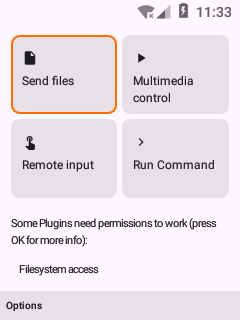
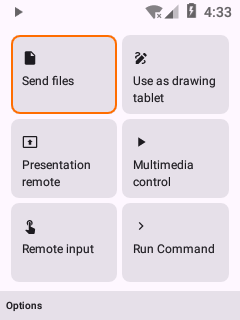
README: current key-only screenshots (15 screens)
Retaken on the 240x320 no-touch API 25 emulator with the current
release build, paired (with keys) to a desktop peer so the screens show
real data. New: PC volume, Run Command with output, Find my phone and
the keypad drawing tablet; the device screen now shows the drawing
tablet tile.

diff --git a/README.md b/README.md
@@ -20,23 +20,27 @@ It keeps any other app's accessibility service and notification listener, and is
 
 <table align="center">
   <tr><td align="center"><img src="screenshots/keypad/01-device-list.png" width="160" alt="Device list"><br><sub>1. Device list</sub></td><td align="center"><img src="screenshots/keypad/02-list-options.png" width="160" alt="Options menu"><br><sub>2. Options menu</sub></td><td align="center"><img src="screenshots/keypad/03-device.png" width="160" alt="Device"><br><sub>3. Device</sub></td></tr>
-  <tr><td align="center"><img src="screenshots/keypad/04-device-options.png" width="160" alt="Device options"><br><sub>4. Device options</sub></td><td align="center"><img src="screenshots/keypad/05-media.png" width="160" alt="Media remote"><br><sub>5. Media remote</sub></td><td align="center"><img src="screenshots/keypad/06-keypad-mouse.png" width="160" alt="Keypad mouse"><br><sub>6. Keypad mouse</sub></td></tr>
-  <tr><td align="center"><img src="screenshots/keypad/07-keypad-mouse-options.png" width="160" alt="Mouse options"><br><sub>7. Mouse options</sub></td><td align="center"><img src="screenshots/keypad/08-compose-text.png" width="160" alt="Compose text"><br><sub>8. Compose text</sub></td><td align="center"><img src="screenshots/keypad/09-add-device.png" width="160" alt="Add device"><br><sub>9. Add device</sub></td></tr>
-  <tr><td align="center"><img src="screenshots/keypad/10-plugin-settings.png" width="160" alt="Plugin settings"><br><sub>10. Plugin settings</sub></td><td align="center"><img src="screenshots/keypad/11-settings.png" width="160" alt="Settings"><br><sub>11. Settings</sub></td><td align="center"><img src="screenshots/keypad/12-share.png" width="160" alt="Share"><br><sub>12. Share</sub></td></tr>
+  <tr><td align="center"><img src="screenshots/keypad/04-device-options.png" width="160" alt="Device options"><br><sub>4. Device options</sub></td><td align="center"><img src="screenshots/keypad/05-media.png" width="160" alt="Media remote"><br><sub>5. Media remote</sub></td><td align="center"><img src="screenshots/keypad/06-pc-volume.png" width="160" alt="PC volume"><br><sub>6. PC volume</sub></td></tr>
+  <tr><td align="center"><img src="screenshots/keypad/07-keypad-mouse.png" width="160" alt="Keypad mouse"><br><sub>7. Keypad mouse</sub></td><td align="center"><img src="screenshots/keypad/08-mouse-options.png" width="160" alt="Mouse options"><br><sub>8. Mouse options</sub></td><td align="center"><img src="screenshots/keypad/09-compose-text.png" width="160" alt="Compose text"><br><sub>9. Compose text</sub></td></tr>
+  <tr><td align="center"><img src="screenshots/keypad/10-run-command.png" width="160" alt="Run Command"><br><sub>10. Run Command</sub></td><td align="center"><img src="screenshots/keypad/11-find-my-phone.png" width="160" alt="Find my phone"><br><sub>11. Find my phone</sub></td><td align="center"><img src="screenshots/keypad/12-drawing-tablet.png" width="160" alt="Drawing tablet"><br><sub>12. Drawing tablet</sub></td></tr>
+  <tr><td align="center"><img src="screenshots/keypad/13-plugin-settings.png" width="160" alt="Plugin settings"><br><sub>13. Plugin settings</sub></td><td align="center"><img src="screenshots/keypad/14-settings.png" width="160" alt="Settings"><br><sub>14. Settings</sub></td><td align="center"><img src="screenshots/keypad/15-share.png" width="160" alt="Share"><br><sub>15. Share</sub></td></tr>
 </table>
 
 1. **Device list**: opens with the first device focused (open the app)
 2. **Options menu**: on top of the soft-key bar (Left soft key)
 3. **Device**: first plugin focused (OK)
 4. **Device options**: ring, ping, plugin settings, unpair (Left soft key)
-5. **Media remote**: Play/Pause on the right key (→ OK)
-6. **Keypad mouse**: the keypad drives the PC pointer (↓ OK)
-7. **Keypad mouse options**: keyboard, compose, settings (Left soft key)
-8. **Compose text**: Clear / Send on the soft keys (Options → Compose text)
-9. **Add device by IP**: dialog opens focused (Options → Add devices by IP → Add device)
-10. **Plugin settings**: the ring hugs the toggle (Options → Plugin settings)
-11. **Settings**: soft-key switch and calibration (Options → Settings)
-12. **Share**: first device focused (share from any app)
+5. **Media remote**: every control reachable, Play/Pause on the right key (Multimedia control)
+6. **PC volume**: pick the output, mute, set the level (Devices tab)
+7. **Keypad mouse**: the keypad drives the PC pointer (Remote input)
+8. **Mouse options**: keyboard, compose, settings (Left soft key)
+9. **Compose text**: Clear / Send on the soft keys (Options → Compose text)
+10. **Run Command**: commands and their output from the PC (Run Command)
+11. **Find my phone**: Found it on the right key (rung from the PC)
+12. **Drawing tablet**: the keypad is the pen: 2 4 6 8 move, OK pen down/up (Use as drawing tablet)
+13. **Plugin settings**: the ring hugs the toggle (Options → Plugin settings)
+14. **Settings**: soft-key switch and calibration (Options → Settings)
+15. **Share**: first device focused (share from any app)
 
 ## Credits
 
